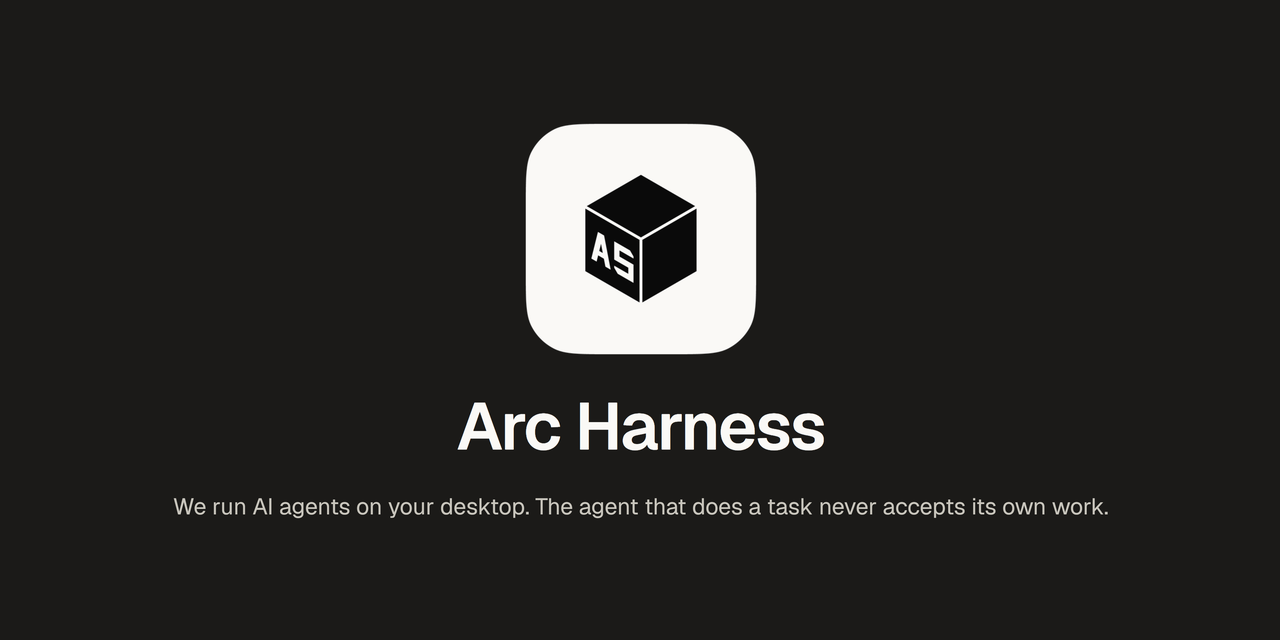
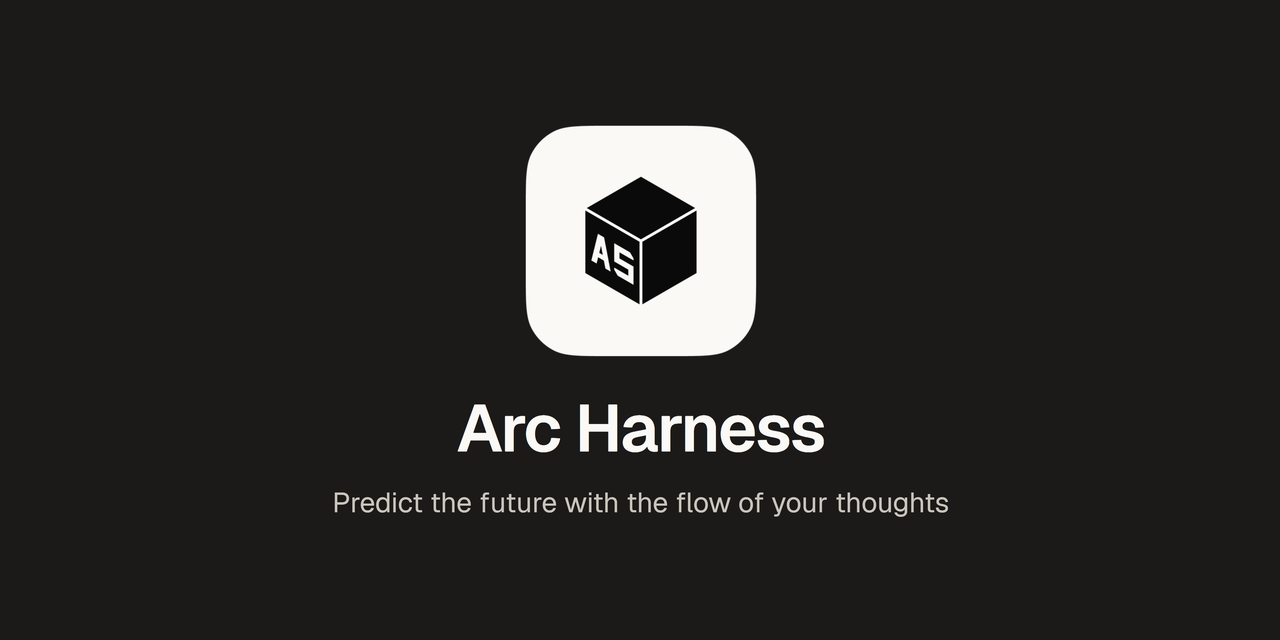
Replace the README header with a one-time animated intro
The header plays once in 1.15 s and rests on the finished name plate.
A still copy serves readers who turn animation off. A dark band with a
cream edge keeps the band visible on all three GitHub themes.

The slogan is now page text under the header, and the social picture
carries it too. The session screenshot moved to Screens.

diff --git a/README.md b/README.md
@@ -1,6 +1,11 @@
 <p align="center">
-  <img src="docs/images/header.png" width="100%" alt="Arc Harness. We run AI agents on your desktop. The agent that does a task never accepts its own work.">
+  <picture>
+    <source media="(prefers-reduced-motion: reduce)" srcset="docs/images/header-still.svg">
+    <img src="docs/images/header.svg" width="100%" alt="Arc Harness">
+  </picture>
 </p>
+
+<p align="center">Predict the future with the flow of your thoughts</p>
 
 <p align="center">
   <a href="https://github.com/danilkotelnikov/Arc-Science/actions/workflows/ci.yml"><img alt="CI status" src="https://img.shields.io/github/actions/workflow/status/danilkotelnikov/Arc-Science/ci.yml?branch=main&label=CI"></a>
@@ -17,10 +22,6 @@
   <a href="#road-map">Road map</a> &nbsp;&nbsp;
   <a href="#build-and-install-windows">Install</a> &nbsp;&nbsp;
   <a href="https://github.com/danilkotelnikov/Arc-Science/wiki">Wiki</a>
-</p>
-
-<p align="center">
-  <img src="docs/images/light-session.png" width="90%" alt="An Arc Harness session with a model reply, in the light cream look">
 </p>
 
 ## What it is
@@ -46,6 +47,8 @@ These are captures of the running app, made by `test/desktop-journey.mjs --mode 
 |---|---|
 | ![Home screen, light](docs/images/light-home.png) | ![Home screen, dark](docs/images/dark-home.png) |
 | **Home.** Start a session in a workspace. | **Warm dark look.** Light, Dark or System. |
+| ![A session in the light look](docs/images/light-session.png) | |
+| **A session in the light look.** | |
 | ![A session in the dark look](docs/images/dark-session.png) | ![The Models page in Settings](docs/images/light-settings-models.png) |
 | **A session.** A real model reply. | **Models.** Add providers and keys. A green dot means connected. |
 | ![General settings](docs/images/light-settings-general.png) | ![Built-in plugins in Settings](docs/images/light-settings-plugins.png) |

diff --git a/CHANGELOG.md b/CHANGELOG.md
@@ -20,7 +20,9 @@ All notable changes to Arc Harness are listed here. The format follows [Keep a C
 - The plugins are renamed: `dsh-hoh` is now `arc-hoh`, and `dsh-theme-pair` is now `arc-theme`.
 - GitHub Actions are pinned to full commit SHAs.
 - The lean profile tool refuses to list a plugin that is not installed, and a refused apply changes nothing.
-- The README opens with a new header built with Molecullage, with the AS tile as its icon. `docs/images/social-preview.png` is the picture for links to the repository.
+- The README opens with an animated header that plays once, with a still copy for readers who turn animation off. The tile and name sit on a dark band with a cream edge, so the band shows on every GitHub theme.
+- The slogan is now "Predict the future with the flow of your thoughts". It is page text under the header, and `docs/images/social-preview.png` carries it too.
+- The session screenshot moved from the top of the README to Screens.
 - The upstream project is credited once, in the README. `NOTICE.md` keeps the licence text.
 - The repository history starts at the Arc Harness build kit. The retired Arc Science desktop app is no longer in this repository.
 
